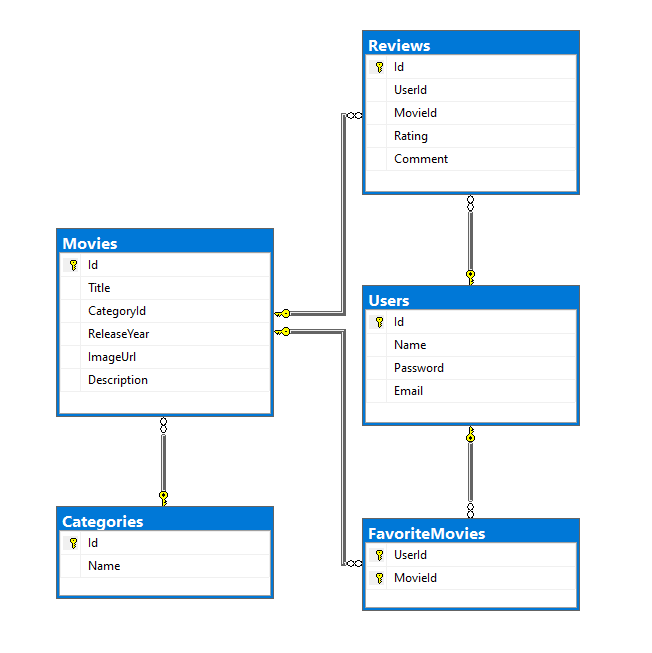
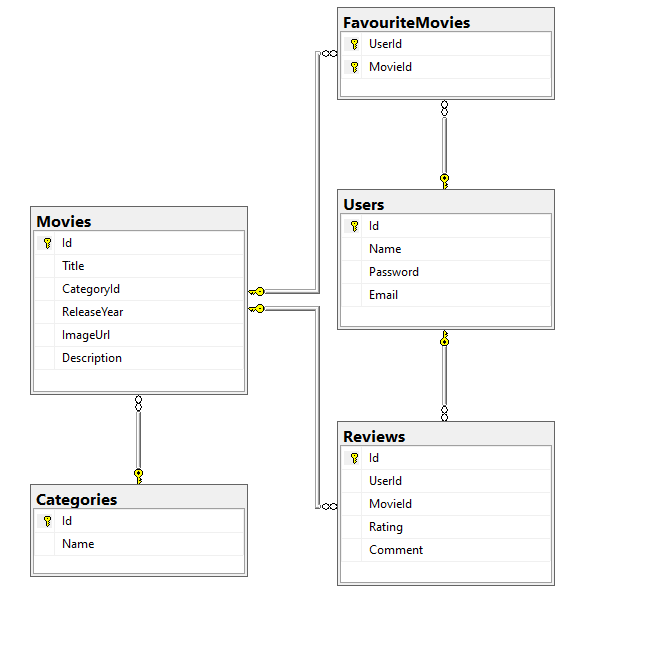
Rename table

Changed region(s): [[0.0307, 0.0, 0.8896, 0.9568]]

diff --git a/Backend/FilmHarbor.Solution/FilmHarbor.Infrastructure/Migrations/20240116172609_Init.cs b/Backend/FilmHarbor.Solution/FilmHarbor.Infrastructure/Migrations/20240116172609_Init.cs
@@ -64,7 +64,7 @@ namespace FilmHarbor.Infrastructure.Migrations
                 });
 
             migrationBuilder.CreateTable(
-                name: "FavoriteMovies",
+                name: "FavouriteMovies",
                 columns: table => new
                 {
                     UserId = table.Column<int>(type: "int", nullable: false),
@@ -72,15 +72,15 @@ namespace FilmHarbor.Infrastructure.Migrations
                 },
                 constraints: table =>
                 {
-                    table.PrimaryKey("PK_FavoriteMovies", x => new { x.UserId, x.MovieId });
+                    table.PrimaryKey("PK_FavouriteMovies", x => new { x.UserId, x.MovieId });
                     table.ForeignKey(
-                        name: "FK_FavoriteMovies_Movies_MovieId",
+                        name: "FK_FavouriteMovies_Movies_MovieId",
                         column: x => x.MovieId,
                         principalTable: "Movies",
                         principalColumn: "Id",
                         onDelete: ReferentialAction.Cascade);
                     table.ForeignKey(
-                        name: "FK_FavoriteMovies_Users_UserId",
+                        name: "FK_FavouriteMovies_Users_UserId",
                         column: x => x.UserId,
                         principalTable: "Users",
                         principalColumn: "Id",
@@ -150,8 +150,8 @@ namespace FilmHarbor.Infrastructure.Migrations
                 });
 
             migrationBuilder.CreateIndex(
-                name: "IX_FavoriteMovies_MovieId",
-                table: "FavoriteMovies",
+                name: "IX_FavouriteMovies_MovieId",
+                table: "FavouriteMovies",
                 column: "MovieId");
 
             migrationBuilder.CreateIndex(
@@ -174,7 +174,7 @@ namespace FilmHarbor.Infrastructure.Migrations
         protected override void Down(MigrationBuilder migrationBuilder)
         {
             migrationBuilder.DropTable(
-                name: "FavoriteMovies");
+                name: "FavouriteMovies");
 
             migrationBuilder.DropTable(
                 name: "Reviews");

diff --git a/Backend/FilmHarbor.Solution/FilmHarbor.Infrastructure/Migrations/20240116172609_Init.Designer.cs b/Backend/FilmHarbor.Solution/FilmHarbor.Infrastructure/Migrations/20240116172609_Init.Designer.cs
@@ -12,7 +12,7 @@ using Microsoft.EntityFrameworkCore.Storage.ValueConversion;
 namespace FilmHarbor.Infrastructure.Migrations
 {
     [DbContext(typeof(FilmHarborDbContext))]
-    [Migration("20240116171643_Init")]
+    [Migration("20240116172609_Init")]
     partial class Init
     {
         /// <inheritdoc />
@@ -25,7 +25,7 @@ namespace FilmHarbor.Infrastructure.Migrations
 
             SqlServerModelBuilderExtensions.UseIdentityColumns(modelBuilder);
 
-            modelBuilder.Entity("FavoriteMovies", b =>
+            modelBuilder.Entity("FavouriteMovies", b =>
                 {
                     b.Property<int>("FavouriteByUsersId")
                         .HasColumnType("int")
@@ -39,7 +39,7 @@ namespace FilmHarbor.Infrastructure.Migrations
 
                     b.HasIndex("FavouriteMoviesId");
 
-                    b.ToTable("FavoriteMovies");
+                    b.ToTable("FavouriteMovies");
                 });
 
             modelBuilder.Entity("FilmHarbor.Core.Entities.Category", b =>
@@ -296,7 +296,7 @@ namespace FilmHarbor.Infrastructure.Migrations
                     b.ToTable("Users");
                 });
 
-            modelBuilder.Entity("FavoriteMovies", b =>
+            modelBuilder.Entity("FavouriteMovies", b =>
                 {
                     b.HasOne("FilmHarbor.Core.Entities.User", null)
                         .WithMany()

diff --git a/Backend/FilmHarbor.Solution/FilmHarbor.Infrastructure/Migrations/FilmHarborDbContextModelSnapshot.cs b/Backend/FilmHarbor.Solution/FilmHarbor.Infrastructure/Migrations/FilmHarborDbContextModelSnapshot.cs
@@ -22,7 +22,7 @@ namespace FilmHarbor.Infrastructure.Migrations
 
             SqlServerModelBuilderExtensions.UseIdentityColumns(modelBuilder);
 
-            modelBuilder.Entity("FavoriteMovies", b =>
+            modelBuilder.Entity("FavouriteMovies", b =>
                 {
                     b.Property<int>("FavouriteByUsersId")
                         .HasColumnType("int")
@@ -36,7 +36,7 @@ namespace FilmHarbor.Infrastructure.Migrations
 
                     b.HasIndex("FavouriteMoviesId");
 
-                    b.ToTable("FavoriteMovies");
+                    b.ToTable("FavouriteMovies");
                 });
 
             modelBuilder.Entity("FilmHarbor.Core.Entities.Category", b =>
@@ -293,7 +293,7 @@ namespace FilmHarbor.Infrastructure.Migrations
                     b.ToTable("Users");
                 });
 
-            modelBuilder.Entity("FavoriteMovies", b =>
+            modelBuilder.Entity("FavouriteMovies", b =>
                 {
                     b.HasOne("FilmHarbor.Core.Entities.User", null)
                         .WithMany()

diff --git a/Backend/FilmHarbor.Solution/FilmHarbor.Infrastructure/DatabaseContext/FilmHarborDbContext.cs b/Backend/FilmHarbor.Solution/FilmHarbor.Infrastructure/DatabaseContext/FilmHarborDbContext.cs
@@ -23,7 +23,7 @@ namespace FilmHarbor.Infrastructure.DatabaseContext
             modelBuilder.Entity<User>()
                 .HasMany(e => e.FavouriteMovies)
                 .WithMany(e => e.FavouriteByUsers)
-                .UsingEntity("FavoriteMovies");
+                .UsingEntity("FavouriteMovies");
 
             modelBuilder.Entity<User>()
                 .HasMany(e => e.FavouriteMovies)
